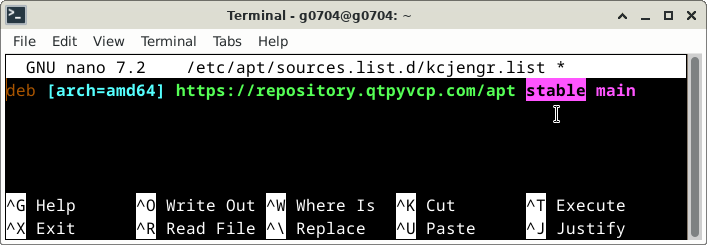
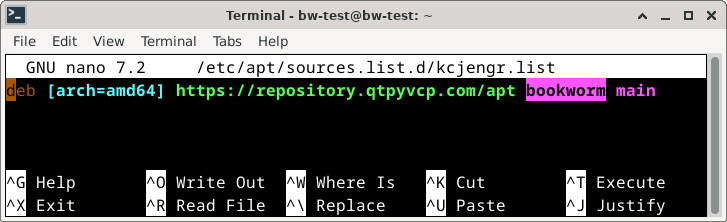
update docs for new repositories for stable and main apt install/update

diff --git a/docs_src/source/stable_quick_start_apt.rst b/docs_src/source/stable_quick_start_apt.rst
@@ -87,7 +87,7 @@ Installation Steps
             sudo apt install curl
 
 
-            echo 'deb [arch=amd64] https://repository.qtpyvcp.com/apt stable main' | sudo tee /etc/apt/sources.list.d/kcjengr.list
+            echo 'deb [arch=amd64] https://repository.qtpyvcp.com/apt bookworm main' | sudo tee /etc/apt/sources.list.d/kcjengr.list
 
 
             curl -sS https://repository.qtpyvcp.com/repo/kcjengr.key | gpg --dearmor | sudo tee /etc/apt/trusted.gpg.d/kcjengr.gpg
@@ -107,7 +107,7 @@ Installation Steps
             sudo apt install curl
 
 
-            echo 'deb [arch=arm64] https://repository.qtpyvcp.com/apt stable main' | sudo tee /etc/apt/sources.list.d/kcjengr.list
+            echo 'deb [arch=arm64] https://repository.qtpyvcp.com/apt bookworm main' | sudo tee /etc/apt/sources.list.d/kcjengr.list
 
 
             curl -sS https://repository.qtpyvcp.com/repo/kcjengr.key | gpg --dearmor | sudo tee /etc/apt/trusted.gpg.d/kcjengr.gpg

diff --git a/docs_src/source/development_quick_start_apt.rst b/docs_src/source/development_quick_start_apt.rst
@@ -104,7 +104,7 @@ Installation Steps
             sudo apt install curl
 
 
-            echo 'deb [arch=arm64] https://repository.qtpyvcp.com/apt develop main' | sudo tee /etc/apt/sources.list.d/kcjengr.list
+            echo 'deb [arch=arm64] https://repository.qtpyvcp.com/apt bookworm-dev main' | sudo tee /etc/apt/sources.list.d/kcjengr.list
 
 
             curl -sS https://repository.qtpyvcp.com/repo/kcjengr.key | gpg --dearmor | sudo tee /etc/apt/trusted.gpg.d/kcjengr.gpg
